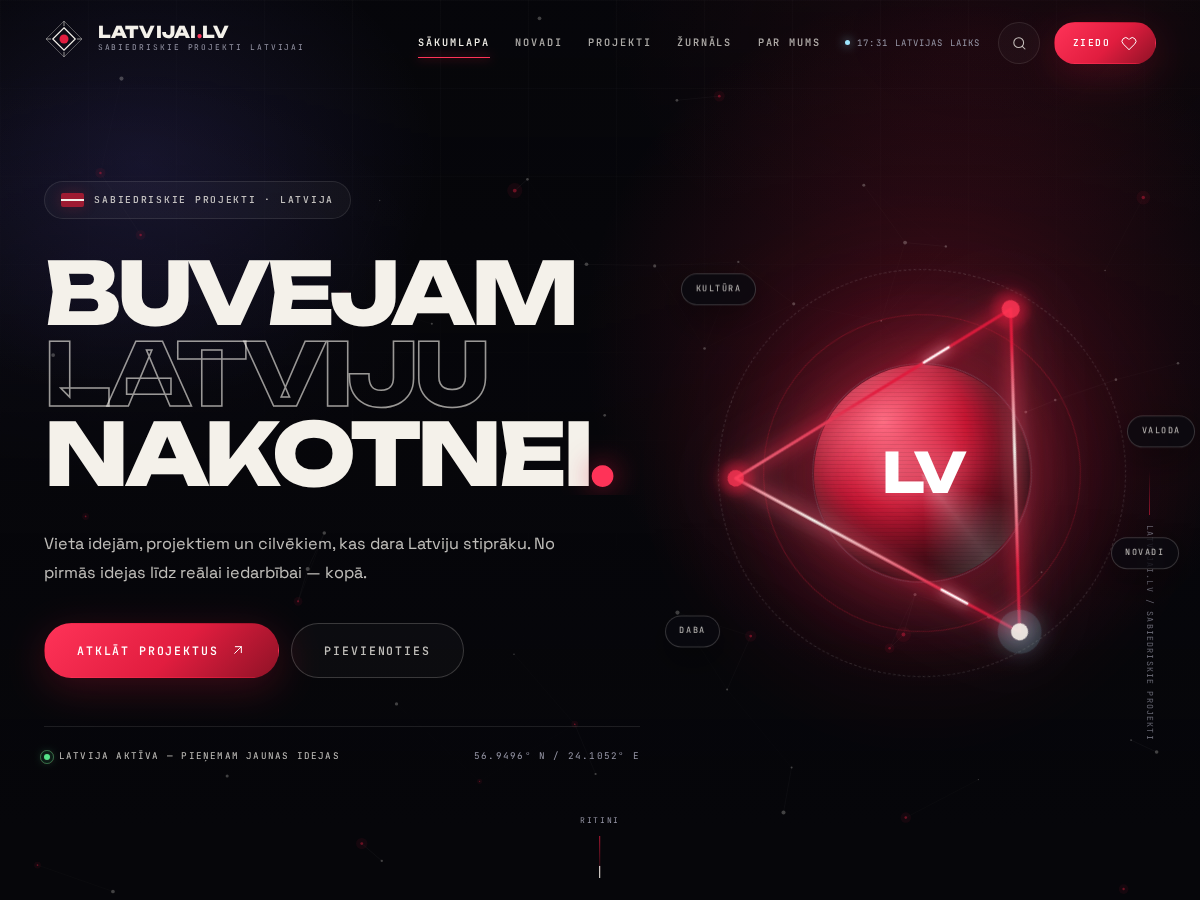
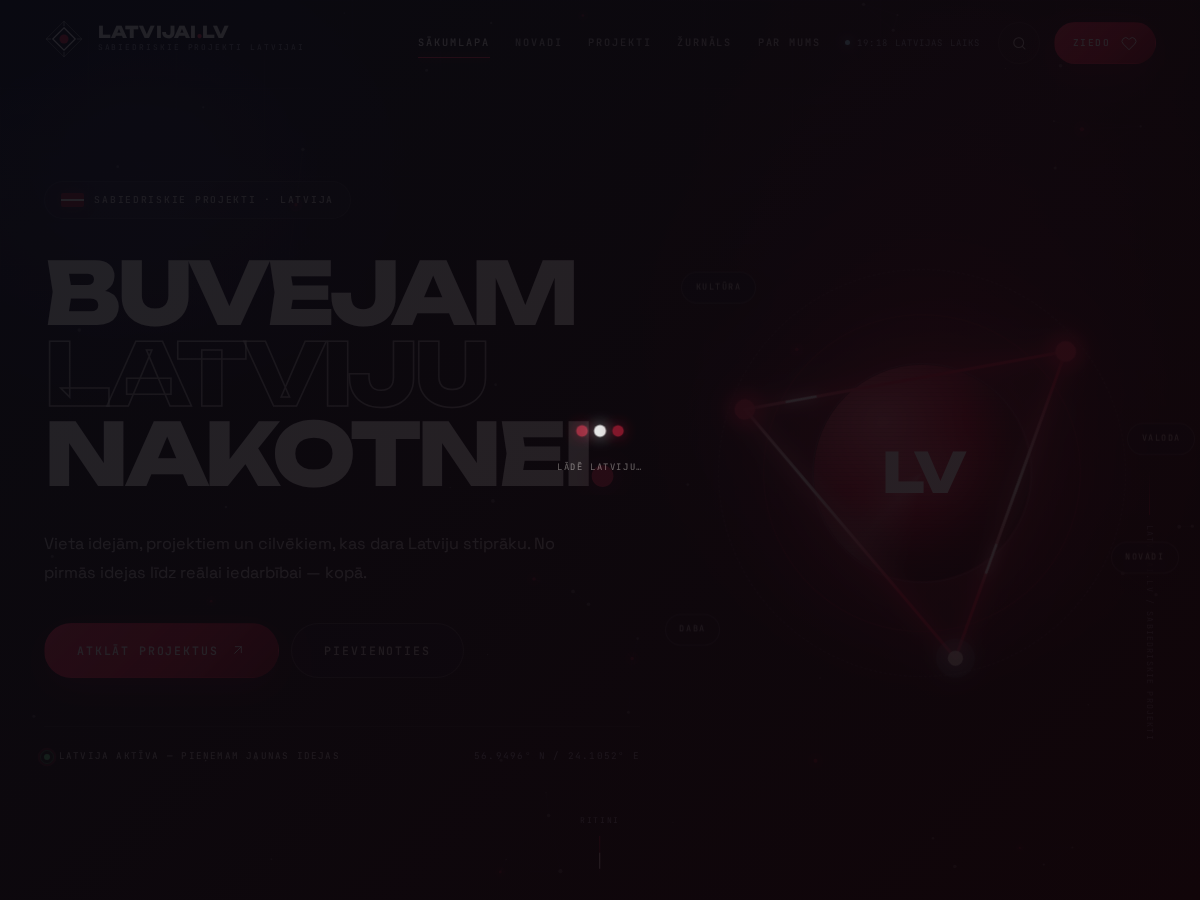
Jauns ekrānuzņēmums ar prelādētāju, centrēts prelādētāja saturs
- screenshot.png (1200×900): sākumlapa ar prelādētāju izbalēšanas brīdī,
  redzami sarkans–balts–sarkans punkti
- .preloader: align-content: center, lai punkti un teksts būtu kopā
  ekrāna vidū, nevis ¼ un ¾ augstumā
- readme.txt izmaiņu žurnāls 1.4.1

diff --git a/assets/css/theme.css b/assets/css/theme.css
@@ -285,6 +285,9 @@ body.search-open {
 	z-index: 9999;
 	display: grid;
 	place-items: center;
+	/* Pack the spinner and text together in the middle instead of splitting
+	   the viewport into two equal rows. */
+	align-content: center;
 	background: var(--preloader-bg, linear-gradient(135deg, #0a0a11, #12050a));
 	transition:
 		opacity 0.5s var(--ease),
